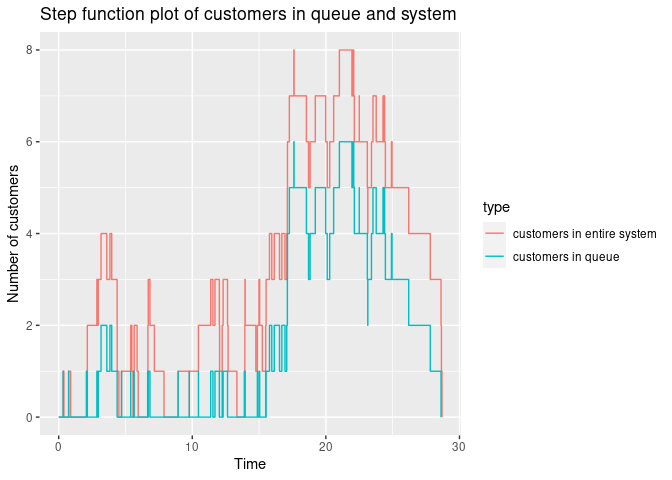
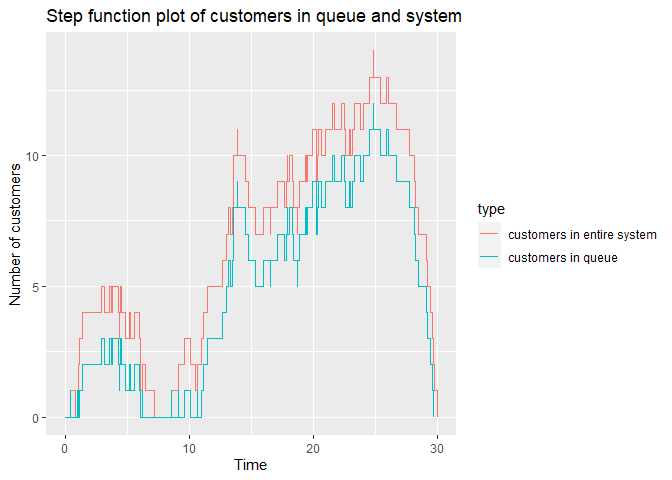
Switch from Travis-CI to GitHub actions

diff --git a/src/RcppExports.cpp b/src/RcppExports.cpp
@@ -6,6 +6,11 @@
 
 using namespace Rcpp;
 
+#ifdef RCPP_USE_GLOBAL_ROSTREAM
+Rcpp::Rostream<true>&  Rcpp::Rcout = Rcpp::Rcpp_cout_get();
+Rcpp::Rostream<false>& Rcpp::Rcerr = Rcpp::Rcpp_cerr_get();
+#endif
+
 // qloop_numeric
 List qloop_numeric(NumericVector times, NumericVector service, int n_servers);
 RcppExport SEXP _queuecomputer_qloop_numeric(SEXP timesSEXP, SEXP serviceSEXP, SEXP n_serversSEXP) {

diff --git a/README.md b/README.md
@@ -1,10 +1,12 @@
 
-[![CRAN\_Status\_Badge](http://www.r-pkg.org/badges/version/queuecomputer)](https://CRAN.R-project.org/package=queuecomputer)
+<!-- badges: start -->
+
+[![CRAN_Status_Badge](http://www.r-pkg.org/badges/version/queuecomputer)](https://CRAN.R-project.org/package=queuecomputer)
 [![Downloads](http://cranlogs.r-pkg.org/badges/queuecomputer)](https://CRAN.R-project.org/package=queuecomputer)
-[![Build
-Status](https://travis-ci.org/AnthonyEbert/queuecomputer.svg?branch=master)](https://travis-ci.org/AnthonyEbert/queuecomputer)
+[![R-CMD-check](https://github.com/AnthonyEbert/queuecomputer/workflows/R-CMD-check/badge.svg)](https://github.com/AnthonyEbert/queuecomputer/actions)
 [![codecov](https://codecov.io/gh/AnthonyEbert/queuecomputer/branch/master/graph/badge.svg)](https://codecov.io/gh/AnthonyEbert/queuecomputer)
 [![DOI](https://img.shields.io/badge/doi-10.18637/jss.v095.i05-informational.svg)](https://doi.org/10.18637/jss.v095.i05)
+<!-- badges: end -->
 
 <!-- --- -->
 <!-- output: html -->
@@ -77,24 +79,24 @@ queue_mm2 <- queue_step(arrivals = arrivals, service = service, servers = 2)
 ```
 
 You can see the table of customer arrival, service and departure times
-by accessing the `departures_df` object from queue\_mm2.
+by accessing the `departures_df` object from queue_mm2.
 
 ``` r
 queue_mm2$departures_df
 #> # A tibble: 50 x 6
-#>    arrivals service departures  waiting system_time server
-#>       <dbl>   <dbl>      <dbl>    <dbl>       <dbl>  <int>
-#>  1    0.334  0.0556      0.390 0.            0.0556      1
-#>  2    0.743  0.150       0.893 0.            0.150       2
-#>  3    2.08   2.30        4.38  4.44e-16      2.30        1
-#>  4    2.14   0.761       2.90  1.11e-16      0.761       2
-#>  5    2.86   0.695       3.60  4.74e- 2      0.742       2
-#>  6    2.96   0.369       3.97  6.37e- 1      1.01        2
-#>  7    3.17   0.406       4.38  7.99e- 1      1.21        2
-#>  8    3.84   0.129       4.50  5.39e- 1      0.669       2
-#>  9    4.70   0.856       5.56  1.11e-16      0.856       1
-#> 10    5.39   0.0837      5.47  0.            0.0837      2
-#> # … with 40 more rows
+#>    arrivals service departures waiting system_time server
+#>       <dbl>   <dbl>      <dbl>   <dbl>       <dbl>  <int>
+#>  1    0.397   0.422      0.820   0           0.422      1
+#>  2    1.02    2.18       3.20    0           2.18       2
+#>  3    1.10    3.22       4.31    0           3.22       1
+#>  4    1.17    0.558      3.76    2.03        2.59       2
+#>  5    1.40    0.595      4.35    2.36        2.95       2
+#>  6    2.92    0.977      5.29    1.39        2.37       1
+#>  7    3.57    0.210      4.56    0.781       0.991      2
+#>  8    3.85    0.309      4.87    0.706       1.02       2
+#>  9    4.36    1.11       5.98    0.512       1.62       2
+#> 10    4.43    0.774      6.07    0.856       1.63       1
+#> # ... with 40 more rows
 ```
 
 You can see visualisations of the queueing system.
@@ -135,15 +137,15 @@ summary(queue_mm2)
 #> Missed customers:
 #>  0
 #> Mean waiting time:
-#>  0.97
+#>  2.91
 #> Mean response time:
-#>  1.84
+#>  3.99
 #> Utilization factor:
-#>  0.760307734503872
+#>  0.897026364068736
 #> Mean queue length:
-#>  1.69
+#>  4.9
 #> Mean number of customers in system:
-#>  3.21
+#>  6.64
 ```
 
 ### Queueing network
@@ -159,11 +161,11 @@ library(queuecomputer)
 library(ggplot2)
 library(dplyr)
 #> 
-#> Attaching package: 'dplyr'
-#> The following objects are masked from 'package:stats':
+#> Vedhæfter pakke: 'dplyr'
+#> De følgende objekter er maskerede fra 'package:stats':
 #> 
 #>     filter, lag
-#> The following objects are masked from 'package:base':
+#> De følgende objekter er maskerede fra 'package:base':
 #> 
 #>     intersect, setdiff, setequal, union
 
@@ -191,10 +193,10 @@ head(queue_1$departures_df)
 #>      <dbl>   <dbl>      <dbl>     <dbl>       <dbl>  <int>
 #> 1     101.   0.189       101. -6.38e-15       0.189      1
 #> 2     102.   2.57        105.  4.44e-15       2.57       2
-#> 3     102.   1.69        104.  0.             1.69       1
+#> 3     102.   1.69        104.  0              1.69       1
 #> 4     102.   2.00        106.  1.55e+ 0       3.55       1
 #> 5     103.   0.435       105.  1.84e+ 0       2.28       2
-#> 6     106.   1.68        107.  0.             1.68       2
+#> 6     106.   1.68        107.  0              1.68       2
 head(arrivals_2)
 #> [1] 120.3923 105.6711 227.5242 175.9008 339.9853 108.7119
 head(queue_2$departures_df)
@@ -202,11 +204,11 @@ head(queue_2$departures_df)
 #>   arrivals service departures   waiting system_time server
 #>      <dbl>   <dbl>      <dbl>     <dbl>       <dbl>  <int>
 #> 1     120.   5.16        126. -2.66e-15        5.16      1
-#> 2     106.   1.58        107.  0.              1.58      1
+#> 2     106.   1.58        107.  0               1.58      1
 #> 3     228.   0.114       291.  6.32e+ 1       63.3       1
 #> 4     176.   2.35        186.  8.02e+ 0       10.4       1
 #> 5     340.   3.20        404.  6.13e+ 1       64.5       1
-#> 6     109.   1.23        110.  0.              1.23      1
+#> 6     109.   1.23        110.  0               1.23      1
 
 summary(queue_1)
 #> Total customers:
